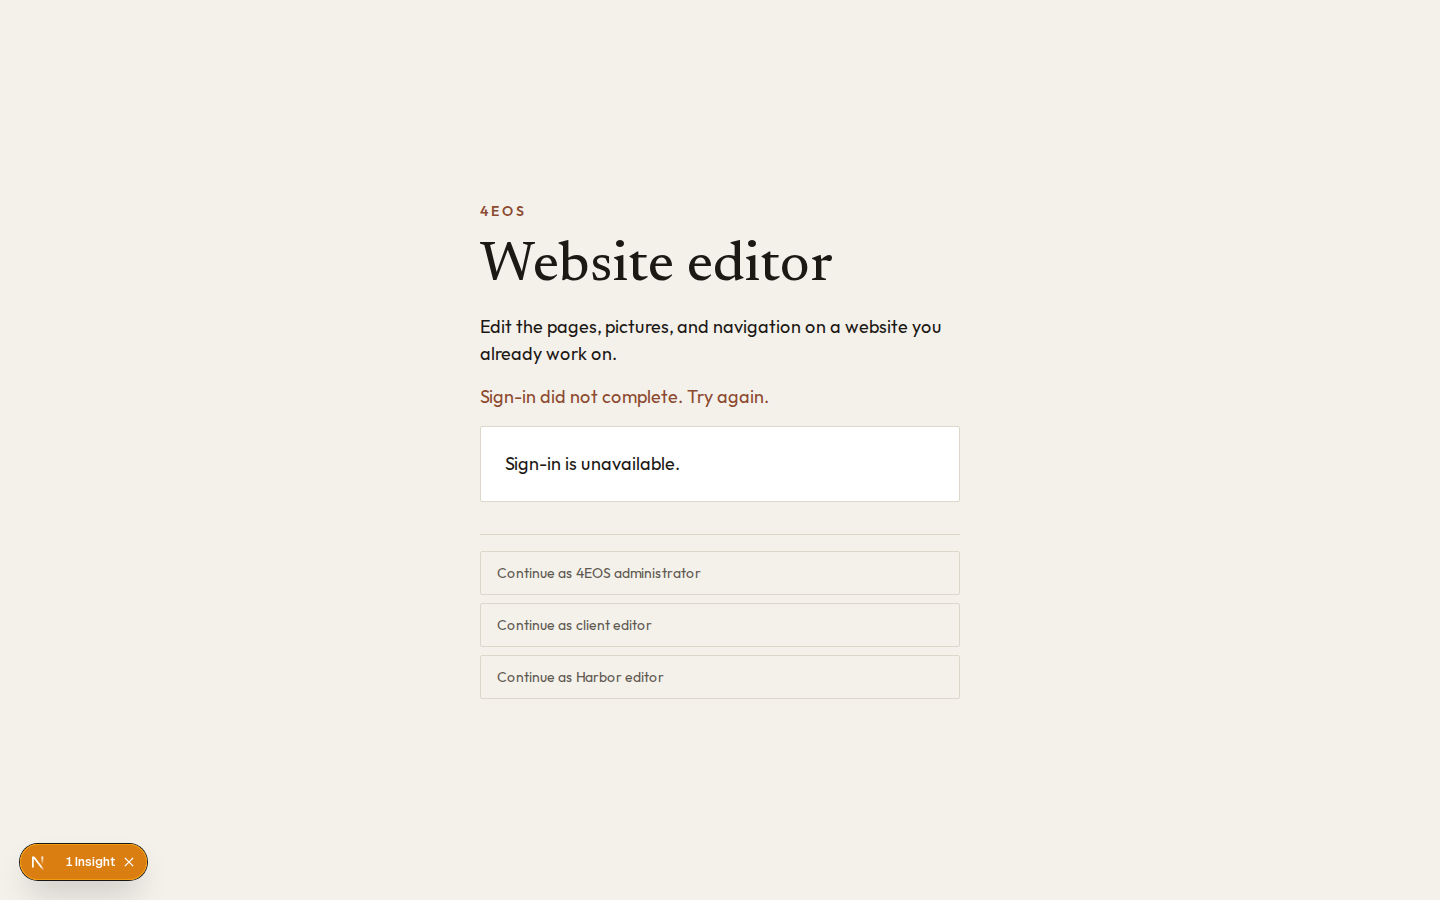
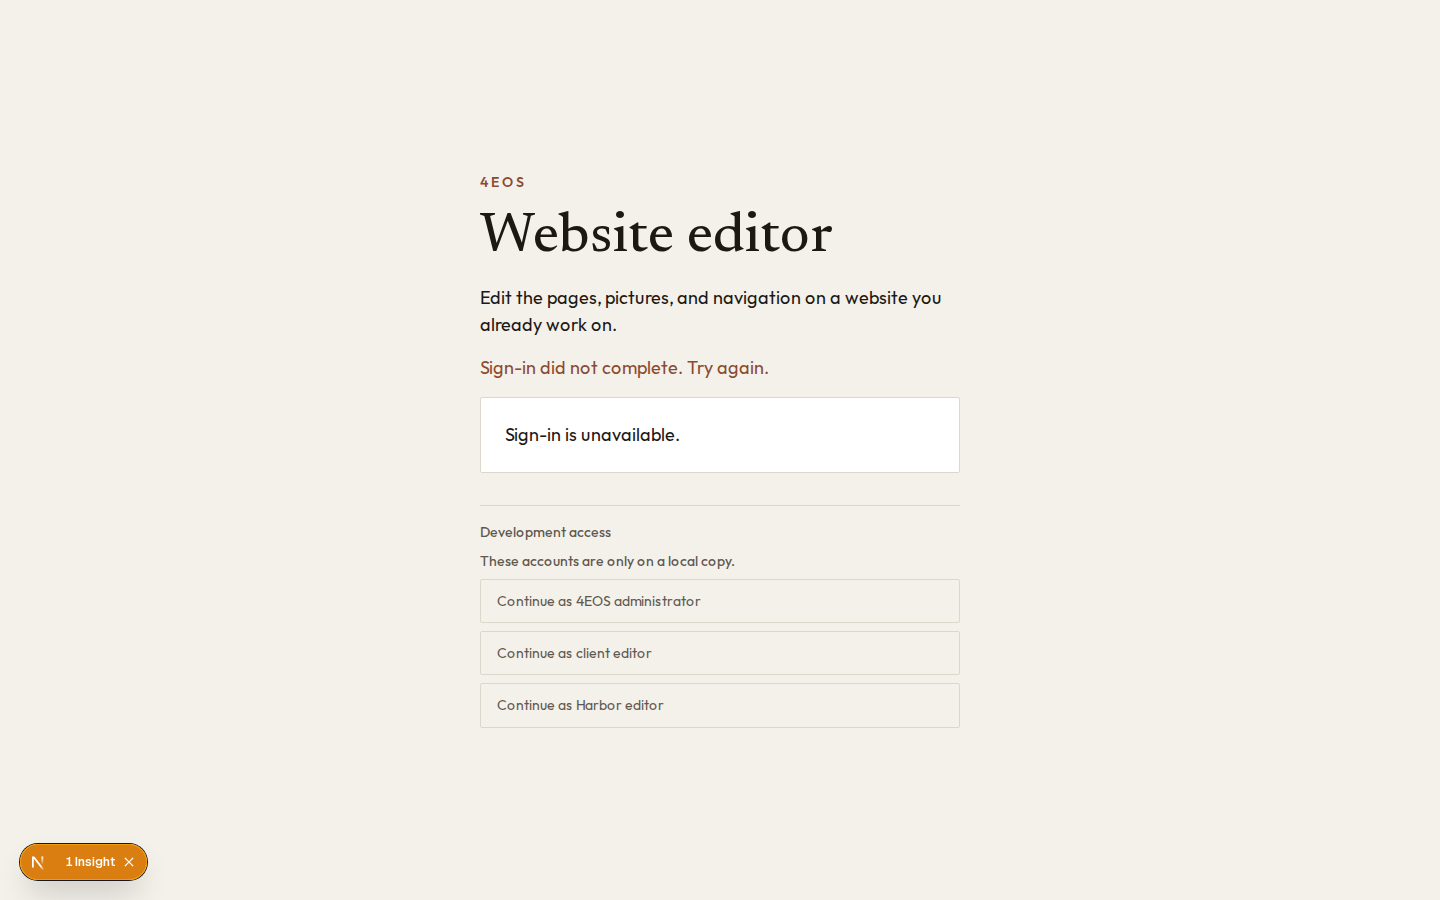
Present development sign-in as secondary
Development accounts sit under Development access, with one line that they exist only on a local copy. The group is hidden when development auth is off. The administrator can still open Connect a website. The client editor still cannot.

Changed region(s): [[0.3125, 0.1867, 0.6562, 0.5289], [0.3438, 0.56, 0.6562, 0.8089]]

diff --git a/tests/e2e/product-signin.spec.ts b/tests/e2e/product-signin.spec.ts
@@ -37,6 +37,29 @@ test("the sign-in screen uses the product system and development sign-in still w
   await expect(page.getByRole("heading", { name: "Choose a website" })).toBeVisible();
 });
 
+test("development access is secondary and both roles still sign in", async ({ browser }) => {
+  const admin = await browser.newContext({ storageState: { cookies: [], origins: [] } });
+  const adminPage = await admin.newPage();
+  await adminPage.goto("/signin");
+  await expect(adminPage.getByRole("heading", { name: "Development access" })).toBeVisible();
+  await expect(adminPage.locator(".border-dashed")).toHaveCount(0);
+  await adminPage.getByRole("button", { name: "Continue as 4EOS administrator" }).click();
+  await expect(adminPage).not.toHaveURL(/\/signin/);
+  await adminPage.goto("/sites/new");
+  await expect(adminPage.getByRole("heading", { name: "Connect a website" })).toBeVisible();
+  await admin.close();
+
+  const editor = await browser.newContext({ storageState: { cookies: [], origins: [] } });
+  const editorPage = await editor.newPage();
+  await editorPage.goto("/signin");
+  await editorPage.getByRole("button", { name: "Continue as client editor" }).click();
+  await expect(editorPage).not.toHaveURL(/\/signin/);
+  await editorPage.goto("/sites/new");
+  await expect(editorPage.getByRole("heading", { name: "That page is not available" })).toBeVisible();
+  await expect(editorPage.getByRole("heading", { name: "Connect a website" })).toHaveCount(0);
+  await editor.close();
+});
+
 test("a failed sign-in shows one sentence and a later sign-in clears it", async ({ page }) => {
   await page.goto("/signin?error=CredentialsSignin");
   await expect(page.locator("main").getByRole("alert")).toHaveText("Sign-in did not complete. Try again.");

diff --git a/src/app/signin/page.tsx b/src/app/signin/page.tsx
@@ -1,10 +1,11 @@
 import { signInAsAdministrator, signInAsEditor, signInAsHarborEditor, signInWithMicrosoft } from "@/app/signin/actions";
 import { SignInSubmit } from "@/app/signin/callback-status";
+import { developmentAccess } from "@/app/signin/development-access";
 import { ProductCard } from "@/components/product/card";
 import { devAuthEnabled, entraConfigured } from "@/lib/dev-auth";
 
 export default async function SignInPage({ searchParams }: PageProps<"/signin">) {
-  const dev = devAuthEnabled();
+  const dev = developmentAccess(devAuthEnabled());
   const entra = entraConfigured();
   const params = await searchParams;
   const failed = typeof params.error === "string" && params.error.length > 0;
@@ -25,6 +26,8 @@ export default async function SignInPage({ searchParams }: PageProps<"/signin">)
       )}
       {dev ? (
         <div className="product-dev">
+          <h2>{dev.title}</h2>
+          <p>{dev.note}</p>
           <form action={signInAsAdministrator}>
             <SignInSubmit label="Continue as 4EOS administrator" />
           </form>

diff --git a/tests/unit/development-access.test.ts b/tests/unit/development-access.test.ts
@@ -1,0 +1,10 @@
+import { test } from "node:test";
+import assert from "node:assert/strict";
+import { developmentAccess } from "../../src/app/signin/development-access.ts";
+
+test("development access is hidden when development auth is off", () => {
+  assert.equal(developmentAccess(false), null);
+  const shown = developmentAccess(true);
+  assert.equal(shown?.title, "Development access");
+  assert.match(shown?.note ?? "", /local copy/);
+});

diff --git a/src/components/product/product.css b/src/components/product/product.css
@@ -200,6 +200,17 @@
   border-top: 1px solid var(--product-line);
 }
 
+.product-dev h2,
+.product-dev p {
+  margin: 0;
+  color: var(--product-muted);
+  font-family: var(--product-font-body);
+  font-size: var(--product-text-sm);
+  font-style: normal;
+  font-weight: 450;
+  line-height: 1.45;
+}
+
 .product-dev .product-button {
   color: var(--product-muted);
   font-size: var(--product-text-sm);

diff --git a/src/app/signin/development-access.ts b/src/app/signin/development-access.ts
@@ -1,0 +1,7 @@
+export function developmentAccess(enabled: boolean) {
+  if (!enabled) return null;
+  return {
+    title: "Development access",
+    note: "These accounts are only on a local copy.",
+  };
+}

diff --git a/docs/product-hallmark.md b/docs/product-hallmark.md
@@ -27,3 +27,5 @@ After:
 There is no separate callback URL. While a sign-in request is in flight, the button label is “Signing you in” and the button will not submit again. That state does not show an error.
 
 A failed sign-in returns to this page and says “Sign-in did not complete. Try again.” The raw error code is not shown. A later successful sign-in leaves the page, so the sentence is gone.
+
+Development accounts sit under “Development access,” with one line that they exist only on a local copy. The group is quieter than the unavailable card. It is omitted when development auth is off. The administrator still opens Connect a website. The client editor still does not.
